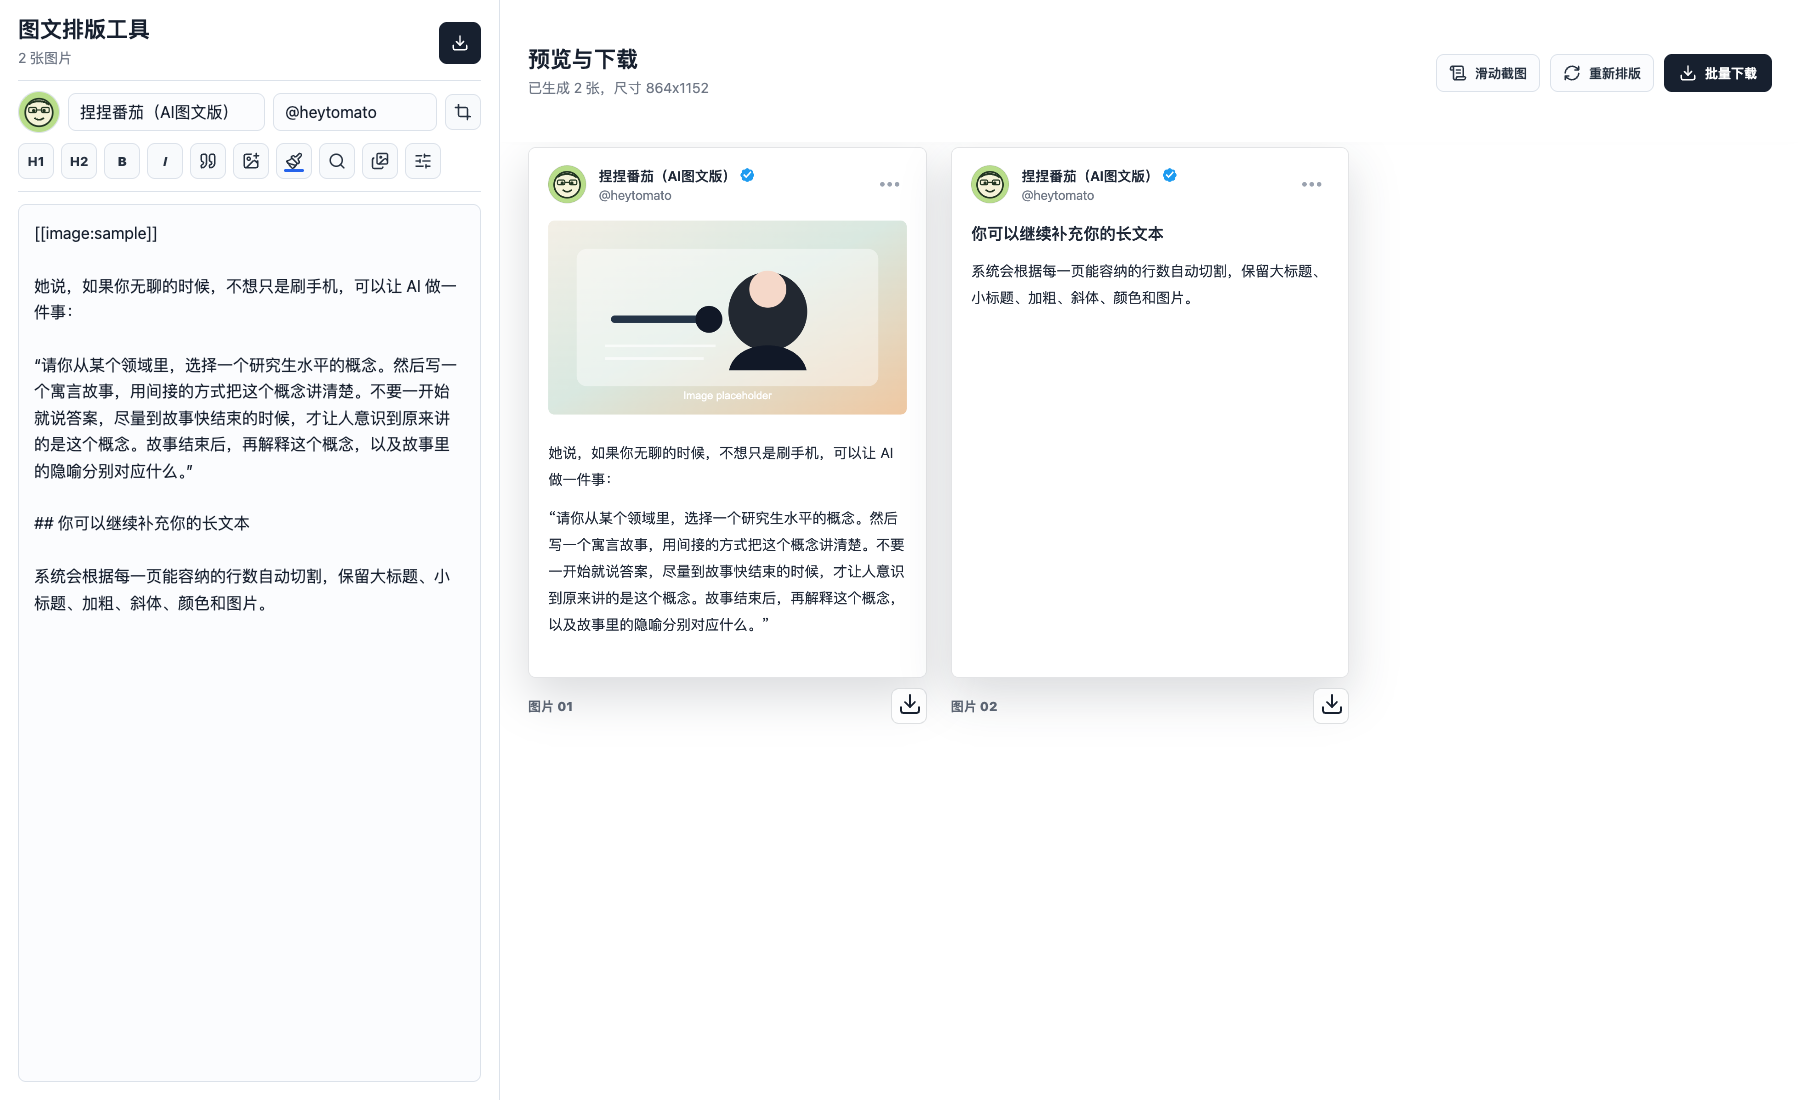
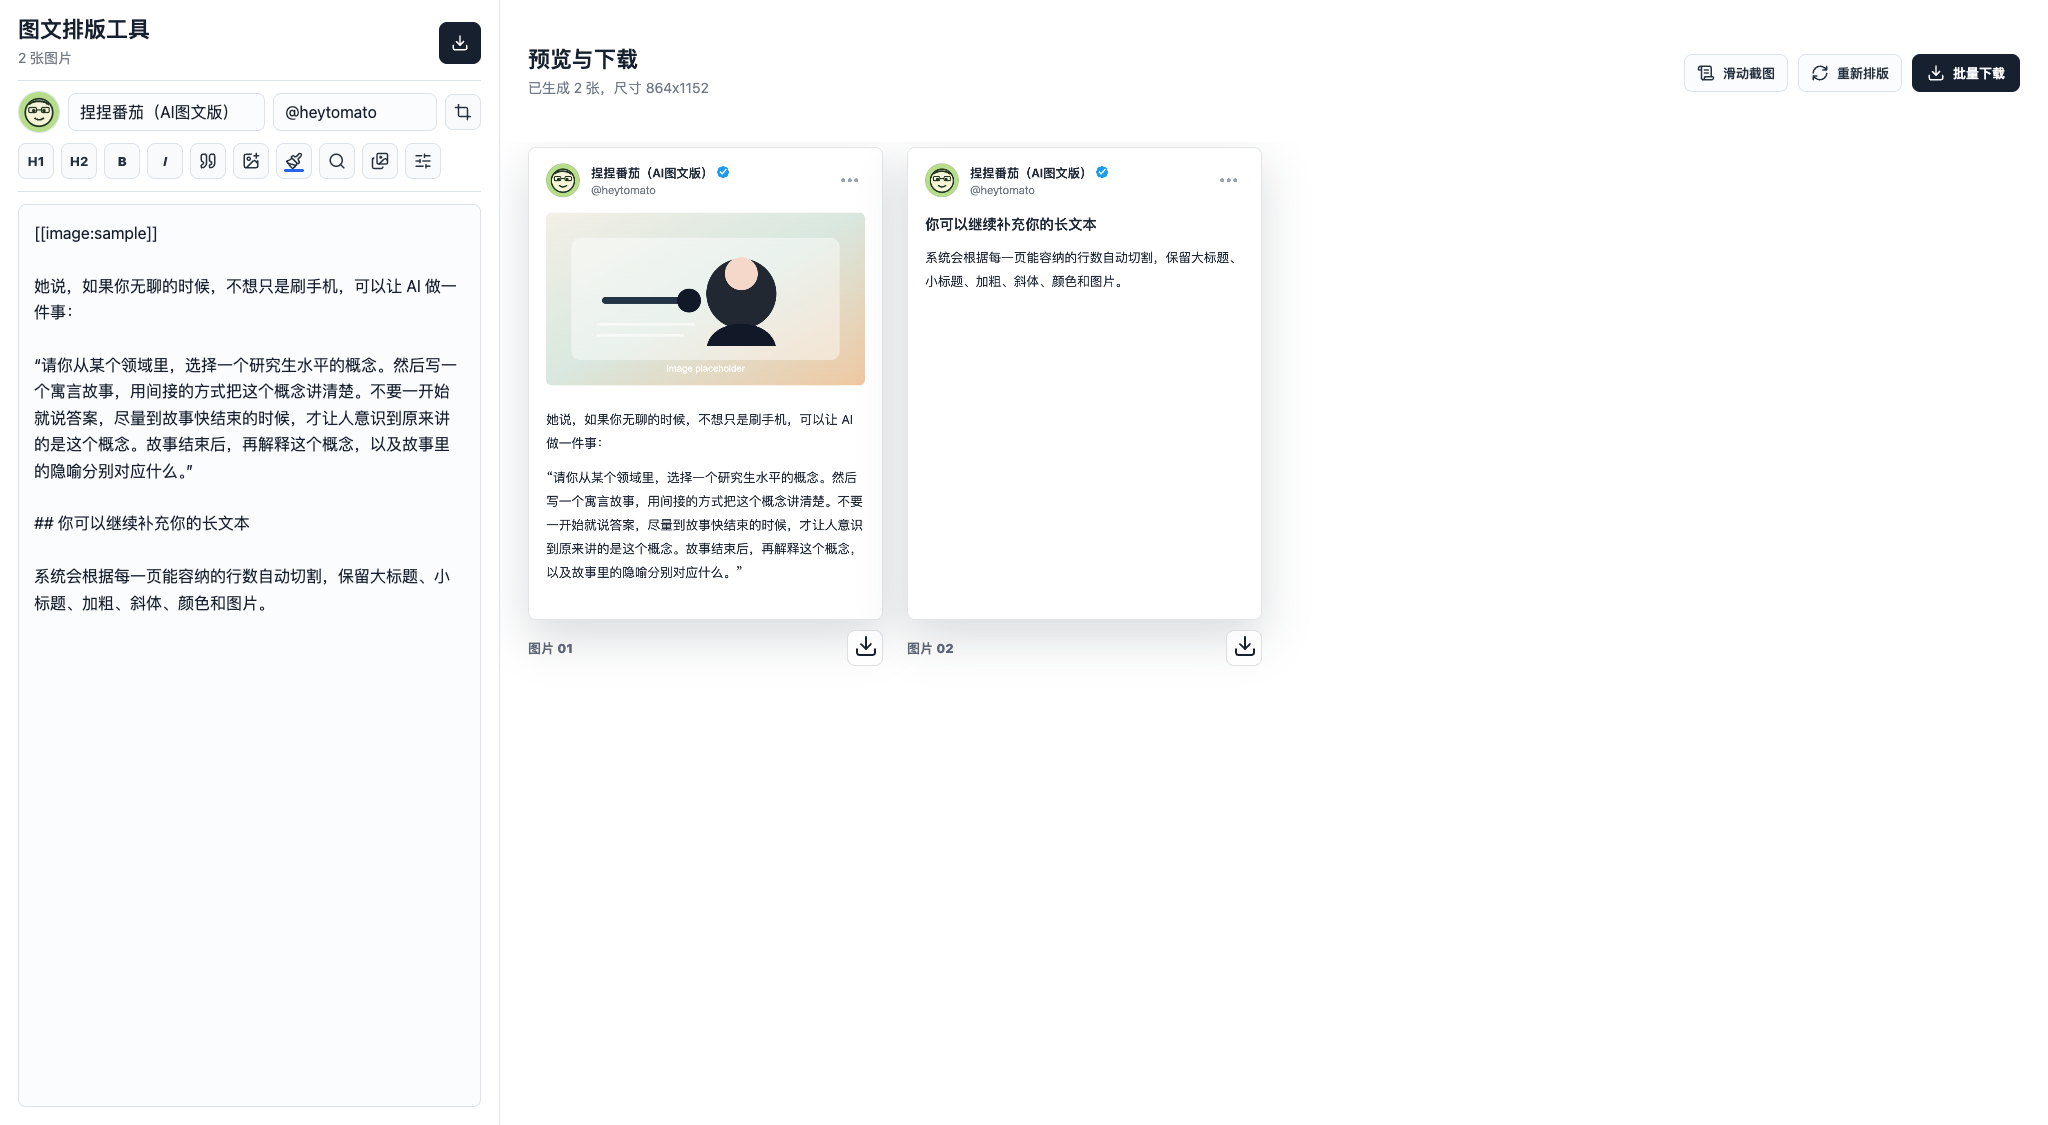
Update README auto layout preview

diff --git a/README.md b/README.md
@@ -1,12 +1,12 @@
 # 图文排版工具
 
-一个用于生成小红书 / X 风格图文卡片的本地排版工具。输入一段长文本后，工具会自动分页排版，并支持导出所有图片；也可以切换到滑动截图模式，在单张长卡片中手动滑动截图。
+一个用于生成小红书 / X 风格图文卡片的本地排版工具。输入一段长文本后，工具会自动排版并输出图片；也可以切换到滑动截图模式，在单张长卡片中手动滑动截图。
 
 ## 预览
 
-### 自动分页模式
+### 自动排版模式
 
-![自动分页模式预览](docs/screenshots/auto-mode-preview.png)
+![自动排版模式预览](docs/screenshots/auto-mode-preview.png)
 
 ### 滑动截图模式
 